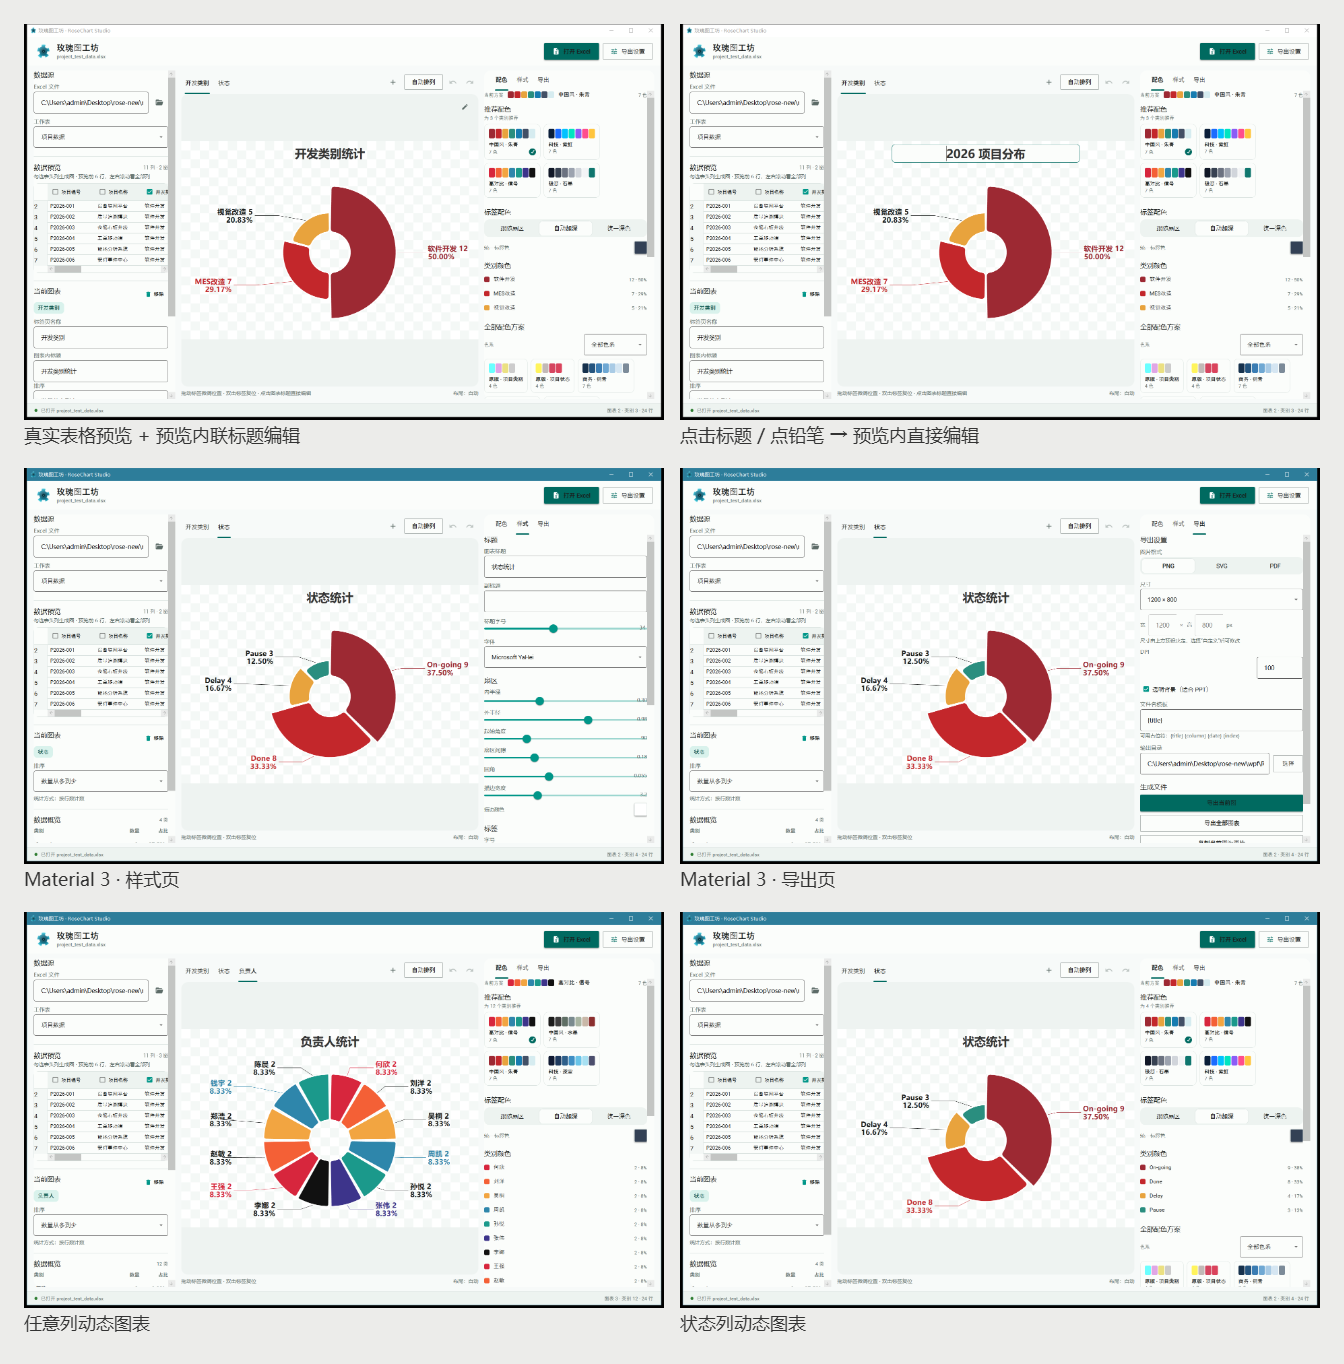
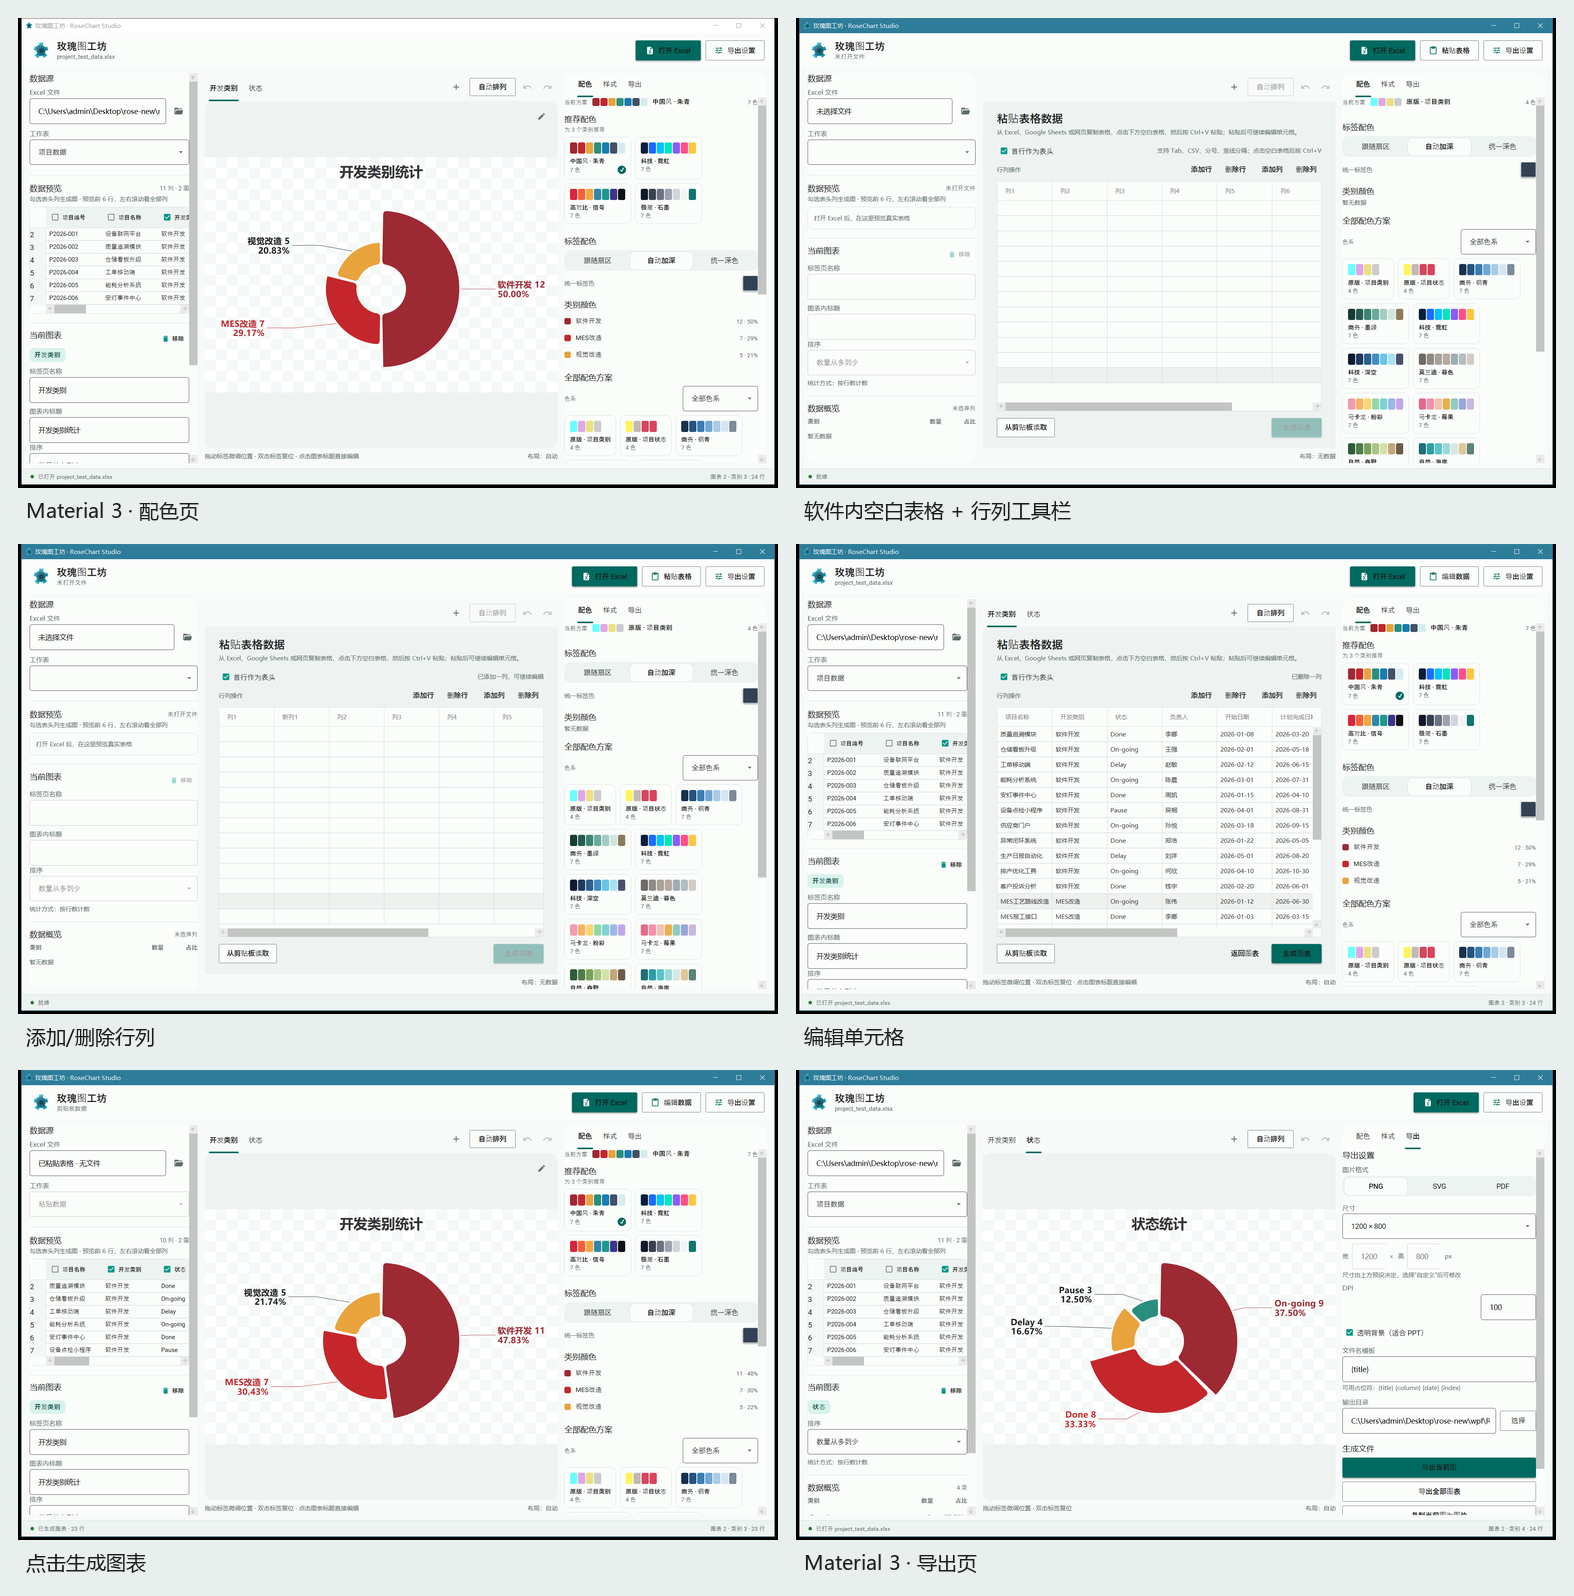
feat: add row and column editing to pasted table

diff --git a/wpf/RoseChartStudio.App/MainWindow.xaml b/wpf/RoseChartStudio.App/MainWindow.xaml
@@ -466,6 +466,7 @@
                                 <Grid.RowDefinitions>
                                     <RowDefinition Height="Auto" />
                                     <RowDefinition Height="Auto" />
+                                    <RowDefinition Height="Auto" />
                                     <RowDefinition Height="*" />
                                     <RowDefinition Height="Auto" />
                                 </Grid.RowDefinitions>
@@ -474,14 +475,32 @@
                                     <TextBlock Text="从 Excel、Google Sheets 或网页复制表格，点击下方空白表格，然后按 Ctrl+V 粘贴；粘贴后可继续编辑单元格。"
                                                Style="{StaticResource CaptionText}" Margin="0,6,0,0" TextWrapping="Wrap" />
                                 </StackPanel>
-                                <Grid Grid.Row="1" Margin="0,14,0,10">
+                                <Grid Grid.Row="1" Margin="0,14,0,8">
                                     <CheckBox x:Name="PasteGridHeaderCheck" Content="首行作为表头"
                                               IsChecked="True" VerticalAlignment="Center" />
                                     <TextBlock x:Name="PasteGridStatus" Text="支持 Tab、CSV、分号、竖线分隔"
                                                Style="{StaticResource CaptionText}" HorizontalAlignment="Right"
                                                VerticalAlignment="Center" />
                                 </Grid>
-                                <Border Grid.Row="2" Background="{StaticResource Panel}"
+                                <Grid Grid.Row="2" Margin="0,0,0,8">
+                                    <TextBlock Text="行列操作" Style="{StaticResource CaptionText}"
+                                               VerticalAlignment="Center" />
+                                    <StackPanel Orientation="Horizontal" HorizontalAlignment="Right">
+                                        <Button x:Name="AddRowButton" Style="{StaticResource GhostButton}"
+                                                Content="添加行" Click="AddRow_Click" Height="30" MinHeight="30"
+                                                Padding="10,0" Margin="0,0,6,0" />
+                                        <Button x:Name="DeleteRowButton" Style="{StaticResource GhostButton}"
+                                                Content="删除行" Click="DeleteRow_Click" Height="30" MinHeight="30"
+                                                Padding="10,0" Margin="0,0,12,0" IsEnabled="False" />
+                                        <Button x:Name="AddColumnButton" Style="{StaticResource GhostButton}"
+                                                Content="添加列" Click="AddColumn_Click" Height="30" MinHeight="30"
+                                                Padding="10,0" Margin="0,0,6,0" />
+                                        <Button x:Name="DeleteColumnButton" Style="{StaticResource GhostButton}"
+                                                Content="删除列" Click="DeleteColumn_Click" Height="30" MinHeight="30"
+                                                Padding="10,0" IsEnabled="False" />
+                                    </StackPanel>
+                                </Grid>
+                                <Border Grid.Row="3" Background="{StaticResource Panel}"
                                         BorderBrush="{StaticResource Hairline}" BorderThickness="1"
                                         CornerRadius="10" ClipToBounds="True">
                                     <DataGrid x:Name="BlankPasteGrid" AutoGenerateColumns="False"
@@ -496,9 +515,18 @@
                                               Background="{StaticResource Panel}" BorderThickness="0"
                                               FontSize="12" HorizontalScrollBarVisibility="Auto"
                                               VerticalScrollBarVisibility="Auto"
-                                              AutomationProperties.Name="空白数据表格" />
+                                              SelectedCellsChanged="BlankPasteGrid_SelectedCellsChanged"
+                                              AutomationProperties.Name="空白数据表格">
+                                        <DataGrid.CellStyle>
+                                            <Style TargetType="{x:Type DataGridCell}">
+                                                <Setter Property="Padding" Value="0" />
+                                                <Setter Property="BorderThickness" Value="0" />
+                                                <Setter Property="VerticalContentAlignment" Value="Center" />
+                                            </Style>
+                                        </DataGrid.CellStyle>
+                                    </DataGrid>
                                 </Border>
-                                <Grid Grid.Row="3" Margin="0,14,0,0">
+                                <Grid Grid.Row="4" Margin="0,14,0,0">
                                     <Button Style="{StaticResource SecondaryButton}" Content="从剪贴板读取"
                                             Click="PasteGridClipboard_Click" Height="38" MinHeight="38"
                                             Padding="16,0" HorizontalAlignment="Left" />

diff --git a/wpf/RoseChartStudio.App/MainWindow.xaml.cs b/wpf/RoseChartStudio.App/MainWindow.xaml.cs
@@ -43,6 +43,7 @@ public partial class MainWindow : Window
     private string? _filePath;
     private bool _pastedData;
     private DataTable? _editorTable;
+    private DataTable? _hookedEditorTable;
     private IReadOnlyList<string> _sheetNames = Array.Empty<string>();
     private bool _uiReady;
     private bool _suppress;
@@ -420,8 +421,12 @@ public partial class MainWindow : Window
         {
             return;
         }
-        _editorTable.ColumnChanged += (_, _) => UpdateEditorGenerateState();
-        _editorTable.RowChanged += (_, _) => UpdateEditorGenerateState();
+        if (!ReferenceEquals(_hookedEditorTable, _editorTable))
+        {
+            _hookedEditorTable = _editorTable;
+            _editorTable.ColumnChanged += (_, _) => UpdateEditorGenerateState();
+            _editorTable.RowChanged += (_, _) => UpdateEditorGenerateState();
+        }
         BlankPasteGrid.Columns.Clear();
         for (var index = 0; index < _editorTable.Columns.Count; index++)
         {
@@ -436,6 +441,7 @@ public partial class MainWindow : Window
         }
         BlankPasteGrid.ItemsSource = _editorTable.DefaultView;
         UpdateEditorGenerateState();
+        UpdateEditorButtons();
     }
 
     private static Style BlankPasteCellStyle()
@@ -508,7 +514,11 @@ public partial class MainWindow : Window
 
     private void UpdateEditorGenerateState()
     {
-        GenerateChartButton.IsEnabled = HasEditorData();
+        var hasData = HasEditorData();
+        GenerateChartButton.IsEnabled = hasData;
+        CancelPasteGridButton.Visibility = hasData || _sheet is not null
+            ? Visibility.Visible
+            : Visibility.Collapsed;
     }
 
     private bool HasEditorData()
@@ -543,7 +553,15 @@ public partial class MainWindow : Window
         PasteGridOverlay.Visibility = Visibility.Visible;
         EmptyOverlay.Visibility = Visibility.Collapsed;
         TitleEditButton.Visibility = Visibility.Collapsed;
-        BlankPasteGrid.Focus();
+        if (_editorTable is { Rows.Count: > 0, Columns.Count: > 0 })
+        {
+            SelectEditorCell(0, 0);
+        }
+        else
+        {
+            BlankPasteGrid.Focus();
+        }
+        UpdateEditorButtons();
     }
 
     private void HidePasteGrid()
@@ -591,6 +609,10 @@ public partial class MainWindow : Window
                 return;
             }
             PopulateEditorFromSheet(result.Table);
+            if (_editorTable is { Rows.Count: > 0, Columns.Count: > 0 })
+            {
+                SelectEditorCell(0, 0);
+            }
             PasteGridStatus.Text =
                 $"已识别 {result.Table.RowCount} 行 × {result.Table.Headers.Count} 列；可直接编辑，完成后点击“生成图表”";
         }
@@ -598,6 +620,164 @@ public partial class MainWindow : Window
         {
             PasteGridStatus.Text = $"无法读取剪贴板：{exception.Message}";
         }
+    }
+
+    private void BlankPasteGrid_SelectedCellsChanged(object sender, SelectedCellsChangedEventArgs e) =>
+        UpdateEditorButtons();
+
+    private void UpdateEditorButtons()
+    {
+        if (_editorTable is null)
+        {
+            DeleteRowButton.IsEnabled = false;
+            DeleteColumnButton.IsEnabled = false;
+            AddRowButton.IsEnabled = false;
+            AddColumnButton.IsEnabled = false;
+            return;
+        }
+        var hasSelection = BlankPasteGrid.CurrentCell.IsValid || BlankPasteGrid.SelectedCells.Count > 0;
+        AddRowButton.IsEnabled = true;
+        AddColumnButton.IsEnabled = true;
+        DeleteRowButton.IsEnabled = hasSelection && _editorTable.Rows.Count > 0;
+        DeleteColumnButton.IsEnabled = hasSelection && _editorTable.Columns.Count > 1;
+    }
+
+    private void CommitEditorEdits()
+    {
+        BlankPasteGrid.CommitEdit(DataGridEditingUnit.Cell, true);
+        BlankPasteGrid.CommitEdit(DataGridEditingUnit.Row, true);
+    }
+
+    private int GetSelectedEditorRow()
+    {
+        var cell = BlankPasteGrid.CurrentCell;
+        if (!cell.IsValid && BlankPasteGrid.SelectedCells.Count > 0)
+        {
+            cell = BlankPasteGrid.SelectedCells[0];
+        }
+        if (!cell.IsValid || _editorTable is null || cell.Item is not DataRowView rowView)
+        {
+            return -1;
+        }
+        return _editorTable.Rows.IndexOf(rowView.Row);
+    }
+
+    private int GetSelectedEditorColumn()
+    {
+        var cell = BlankPasteGrid.CurrentCell;
+        if (!cell.IsValid && BlankPasteGrid.SelectedCells.Count > 0)
+        {
+            cell = BlankPasteGrid.SelectedCells[0];
+        }
+        return cell.IsValid ? BlankPasteGrid.Columns.IndexOf(cell.Column) : -1;
+    }
+
+    private void SelectEditorCell(int rowIndex, int columnIndex)
+    {
+        if (_editorTable is null || BlankPasteGrid.Items.Count == 0 || BlankPasteGrid.Columns.Count == 0)
+        {
+            return;
+        }
+        rowIndex = Math.Clamp(rowIndex, 0, BlankPasteGrid.Items.Count - 1);
+        columnIndex = Math.Clamp(columnIndex, 0, BlankPasteGrid.Columns.Count - 1);
+        var item = BlankPasteGrid.Items[rowIndex];
+        var column = BlankPasteGrid.Columns[columnIndex];
+        BlankPasteGrid.CurrentCell = new DataGridCellInfo(item, column);
+        BlankPasteGrid.ScrollIntoView(item, column);
+        BlankPasteGrid.Focus();
+        UpdateEditorButtons();
+    }
+
+    private string NextEditorColumnName()
+    {
+        var index = 1;
+        while (_editorTable?.Columns.Contains($"新列{index}") == true)
+        {
+            index++;
+        }
+        return $"新列{index}";
+    }
+
+    private void AddRow_Click(object sender, RoutedEventArgs e)
+    {
+        if (_editorTable is null)
+        {
+            return;
+        }
+        CommitEditorEdits();
+        var selectedRow = GetSelectedEditorRow();
+        var selectedColumn = Math.Max(0, GetSelectedEditorColumn());
+        var insertAt = selectedRow >= 0 ? selectedRow + 1 : _editorTable.Rows.Count;
+        _editorTable.Rows.InsertAt(_editorTable.NewRow(), insertAt);
+        PasteGridStatus.Text = "已添加一行，可继续编辑";
+        UpdateEditorGenerateState();
+        SelectEditorCell(insertAt, selectedColumn);
+    }
+
+    private void DeleteRow_Click(object sender, RoutedEventArgs e)
+    {
+        if (_editorTable is null)
+        {
+            return;
+        }
+        CommitEditorEdits();
+        var rowIndex = GetSelectedEditorRow();
+        if (rowIndex < 0 || _editorTable.Rows.Count == 0)
+        {
+            PasteGridStatus.Text = "请先选中要删除的行中的单元格。";
+            return;
+        }
+        var column = Math.Max(0, GetSelectedEditorColumn());
+        _editorTable.Rows.RemoveAt(rowIndex);
+        PasteGridStatus.Text = "已删除一行";
+        UpdateEditorGenerateState();
+        if (_editorTable.Rows.Count > 0)
+        {
+            SelectEditorCell(Math.Min(rowIndex, _editorTable.Rows.Count - 1), column);
+        }
+        UpdateEditorButtons();
+    }
+
+    private void AddColumn_Click(object sender, RoutedEventArgs e)
+    {
+        if (_editorTable is null)
+        {
+            return;
+        }
+        CommitEditorEdits();
+        var rowIndex = Math.Max(0, GetSelectedEditorRow());
+        var selectedColumn = GetSelectedEditorColumn();
+        var insertAt = selectedColumn >= 0 ? selectedColumn + 1 : _editorTable.Columns.Count;
+        var column = _editorTable.Columns.Add(NextEditorColumnName(), typeof(string));
+        column.SetOrdinal(insertAt);
+        BindEditorTable();
+        PasteGridStatus.Text = "已添加一列，可继续编辑";
+        SelectEditorCell(rowIndex, insertAt);
+    }
+
+    private void DeleteColumn_Click(object sender, RoutedEventArgs e)
+    {
+        if (_editorTable is null)
+        {
+            return;
+        }
+        CommitEditorEdits();
+        if (_editorTable.Columns.Count <= 1)
+        {
+            PasteGridStatus.Text = "至少保留一列。";
+            return;
+        }
+        var columnIndex = GetSelectedEditorColumn();
+        if (columnIndex < 0)
+        {
+            PasteGridStatus.Text = "请先选中要删除的列中的单元格。";
+            return;
+        }
+        var rowIndex = Math.Max(0, GetSelectedEditorRow());
+        _editorTable.Columns.RemoveAt(columnIndex);
+        BindEditorTable();
+        PasteGridStatus.Text = "已删除一列";
+        SelectEditorCell(rowIndex, Math.Min(columnIndex, _editorTable.Columns.Count - 1));
     }
 
     private void GenerateChart_Click(object sender, RoutedEventArgs e)

diff --git a/wpf/README.md b/wpf/README.md
@@ -9,7 +9,7 @@ v3.2 起支持直接粘贴表格数据；v3.1 起从「固定项目/状态两张
 ## 核心变化
 
 ### 1. 任意列、任意数量图表
-- **直接粘贴并编辑表格**：启动后中心显示空白表格，从 Excel / Google Sheets / 网页复制 TSV、CSV 或分号分隔文本，点击表格按 Ctrl+V 粘贴；单元格可继续编辑，确认后点击“生成图表”，生成后仍可通过顶部“编辑数据”重新修改并再次生成。
+- **直接粘贴并编辑表格**：启动后中心显示空白表格，从 Excel / Google Sheets / 网页复制 TSV、CSV 或分号分隔文本，点击表格按 Ctrl+V 粘贴；单元格可继续编辑，支持添加/删除行、列；确认后点击“生成图表”，生成后仍可通过顶部“编辑数据”重新修改并再次生成。
 - 左侧「数据预览」直接显示当前工作表的**真实小表格**：真实表头、Excel 行号、前 6 行数据；每个表头带勾选框，勾选该列即生成一张玫瑰图，可同时打开任意多张；水平滚动查看全部列。
 - 图表标签页动态生成，支持添加、移除、切换；每张图独立保存配色、标题、排序、标签位置。
 - 每个图表的**标签页名称**与**图表内大标题**可分别自定义：标签页名称可在左侧编辑或双击标签页改名；图表大标题可直接在预览画布上**点击标题**，或点标题右上角铅笔**内联编辑**（左侧/样式页字段仍同步），随设置持久化。

diff --git a/wpf/_qa/README.md b/wpf/_qa/README.md
@@ -18,7 +18,9 @@
 | `shots/final/09_inline_title.png` | 在预览画布内联编辑图表标题（点击标题或点铅笔） |
 | `shots/final/11_blank_table.png` | 软件内空白表格：点击表格后按 Ctrl+V 粘贴，可编辑单元格 |
 | `shots/final/12_paste_grid_chart.png` | 编辑完成并点击“生成图表”后的玫瑰图 |
-| `shots/final/15_paste_table_edit.png` | 生成后通过顶部“编辑数据”重新打开表格继续修改 |
+| `shots/final/15_paste_table_edit.png` | 生成后通过顶部“编辑数据”重新打开表格，编辑单元格 |
+| `shots/final/16_row_col_controls.png` | 表格行列操作：添加/删除行列 |
+| `shots/final/18_paste_grid_min.png` | 最小窗口 1440×870 下的空白表格与行列工具栏 |
 
 截图通过 `PrintWindow` 从应用窗口本身捕获，避免桌面其他置顶窗口/广告浮层进入证据；分辨率 1900×1175（1520×940 @125% DPI），最小窗口 1800×1088（1440×870 @125%）。`contact_sheet.png` 为 6 个关键状态并排总览。
 

diff --git a/README.md b/README.md
@@ -13,6 +13,7 @@
 - **任意 Excel 列**都可以生成玫瑰图，不再限制“项目/状态”两类统计；
 - **无需 Excel 文件**：启动后中心显示空白表格，从 Excel / Google Sheets / 网页复制表格，点击表格按 Ctrl+V 粘贴；粘贴后单元格仍可编辑，确认后点击“生成图表”。
 - 左侧真实表格预览：显示真实表头、Excel 行号和前 6 行数据，勾选表头列即可生成图表；
+- 可编辑数据表支持添加/删除行、列；生成图表后仍可通过「编辑数据」继续修改再生成；
 - 动态图表标签页：可同时打开多张图，支持添加、删除、切换；
 - 每个图表独立保存配色、标签、排序、标签位置和标题；
 - 图表标题支持在预览画布内直接点击编辑；
